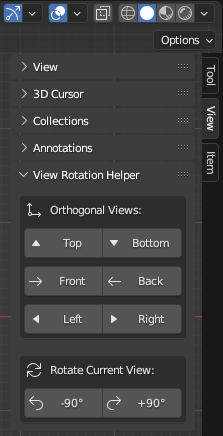
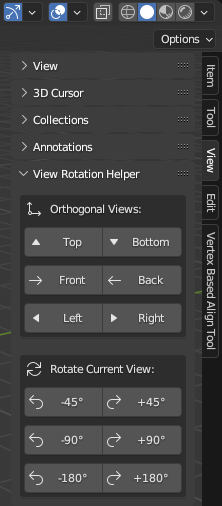
V1.1.0
Add multiple rotation angles (±45°, ±90°, ±180°) - v1.1.0

diff --git a/view_rotation_helper.py b/view_rotation_helper.py
@@ -1,10 +1,10 @@
 bl_info = {
     "name": "View Rotation Helper",
     "author": "Vince",
-    "version": (1, 0, 0),
+    "version": (1, 1, 0),
     "blender": (3, 0, 0),
     "location": "View3D > Sidebar > View",
-    "description": "Quick access to orthogonal views with rotation control",
+    "description": "Quick access to orthogonal views with multiple rotation angles",
     "category": "3D View",
 }
 
@@ -97,12 +97,29 @@ class VIEW3D_PT_view_rotation_helper(bpy.types.Panel):
         box = layout.box()
         box.label(text="Rotate Current View:", icon='FILE_REFRESH')
         
+        # First row: ±45°
+        row = box.row(align=True)
+        row.scale_y = 1.5
+        op = row.operator("view3d.rotate_view_90", text="-45°", icon='LOOP_BACK')
+        op.angle = -45.0
+        op = row.operator("view3d.rotate_view_90", text="+45°", icon='LOOP_FORWARDS')
+        op.angle = 45.0
+        
+        # Second row: ±90°
         row = box.row(align=True)
         row.scale_y = 1.5
         op = row.operator("view3d.rotate_view_90", text="-90°", icon='LOOP_BACK')
         op.angle = -90.0
         op = row.operator("view3d.rotate_view_90", text="+90°", icon='LOOP_FORWARDS')
         op.angle = 90.0
+        
+        # Third row: ±180°
+        row = box.row(align=True)
+        row.scale_y = 1.5
+        op = row.operator("view3d.rotate_view_90", text="-180°", icon='LOOP_BACK')
+        op.angle = -180.0
+        op = row.operator("view3d.rotate_view_90", text="+180°", icon='LOOP_FORWARDS')
+        op.angle = 180.0
 
 
 # Registration

diff --git a/README.md b/README.md
@@ -11,7 +11,7 @@ A Blender add-on that provides quick access to orthogonal views with rotation co
 ## Features
 
 - **Quick Orthogonal Views**: Six buttons for instant access to Top, Bottom, Front, Back, Left, and Right views
-- **View Rotation**: Rotate any orthogonal view by ±90° increments
+- **View Rotation**: Rotate any orthogonal view by ±45°, ±90°, or ±180° increments
 - **User-Friendly Interface**: Clean panel in the 3D View sidebar with clear icons
 - **Efficient Workflow**: No need to use the numpad or manually rotate locked orthogonal views
 
@@ -19,7 +19,7 @@ A Blender add-on that provides quick access to orthogonal views with rotation co
 
 Blender's default orthogonal views (accessible via numpad 1, 3, 7, etc.) are locked and cannot be rotated. This add-on fills that gap by allowing you to:
 - Set any orthogonal view with a single click
-- Rotate these views in 90° increments
+- Rotate these views in 45°, 90°, or 180° increments
 - Combine views and rotations for precise angles (e.g., Top view rotated 90°)
 
 ## Installation
@@ -36,13 +36,15 @@ Blender's default orthogonal views (accessible via numpad 1, 3, 7, etc.) are loc
 2. Navigate to the `View` tab
 3. You'll see the "View Rotation Helper" panel with:
    - **Orthogonal Views section**: 6 buttons arranged in pairs (Top/Bottom, Front/Back, Left/Right)
-   - **Rotate Current View section**: Two buttons for -90° and +90° rotation
+   - **Rotate Current View section**: Six buttons for -45°, +45°, -90°, +90°, -180°, and +180° rotation
 
 ### Example Workflow
 
 - Click `Top` to set the top view
+- Click `+45°` for a slight rotation
 - Click `+90°` to rotate the view 90 degrees clockwise
-- Click `-90°` to rotate back or continue rotating
+- Click `+180°` to flip the view completely
+- Use negative angles to rotate counter-clockwise
 
 ## Compatibility
 

diff --git a/CHANGELOG.md b/CHANGELOG.md
@@ -5,6 +5,19 @@ All notable changes to the View Rotation Helper add-on will be documented in thi
 The format is based on [Keep a Changelog](https://keepachangelog.com/en/1.0.0/),
 and this project adheres to [Semantic Versioning](https://semver.org/spec/v2.0.0.html).
 
+## [1.1.0] - 2024-12-11
+
+### Added
+
+- Additional rotation angles: ±45° and ±180°
+- Three-row layout for rotation buttons (45°, 90°, 180°)
+- More flexible view rotation options for precise positioning
+
+### Changed
+
+- Reorganized rotation section with three rows of buttons
+- Updated interface to accommodate new rotation angles
+
 ## [1.0.0] - 2024-12-02
 
 ### Added
@@ -33,6 +46,15 @@ and this project adheres to [Semantic Versioning](https://semver.org/spec/v2.0.0
 
 ## Release Notes
 
+### Version 1.1.0
+This update adds more rotation flexibility with additional angle options. Users can now rotate views by ±45°, ±90°, or ±180°, providing finer control for precise view positioning. The interface has been reorganized with a three-row layout for better clarity.
+
+**New in this version:**
+
+- ±45° rotation buttons for subtle adjustments
+- ±180° rotation buttons for quick view flipping
+- Improved button layout with three organized rows
+
 ### Version 1.0.0
 This is the first stable release of View Rotation Helper. The add-on addresses a common workflow need in Blender: the ability to rotate orthogonal views, which is not natively available in Blender's default view controls.
 
@@ -45,5 +67,3 @@ This is the first stable release of View Rotation Helper. The add-on addresses a
 - Additional view alignment tools
 
 ---
-
-[1.0.0]: https://github.com/yourusername/view-rotation-helper/releases/tag/v1.0.0
